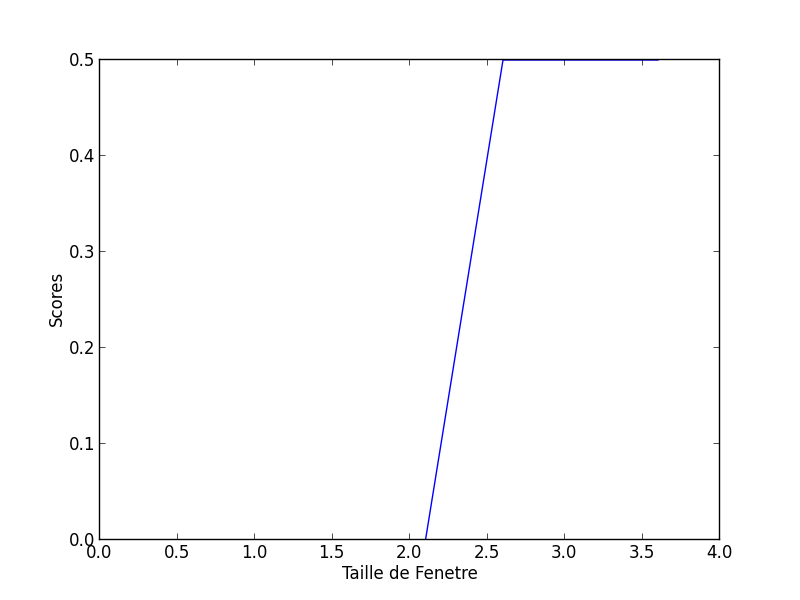
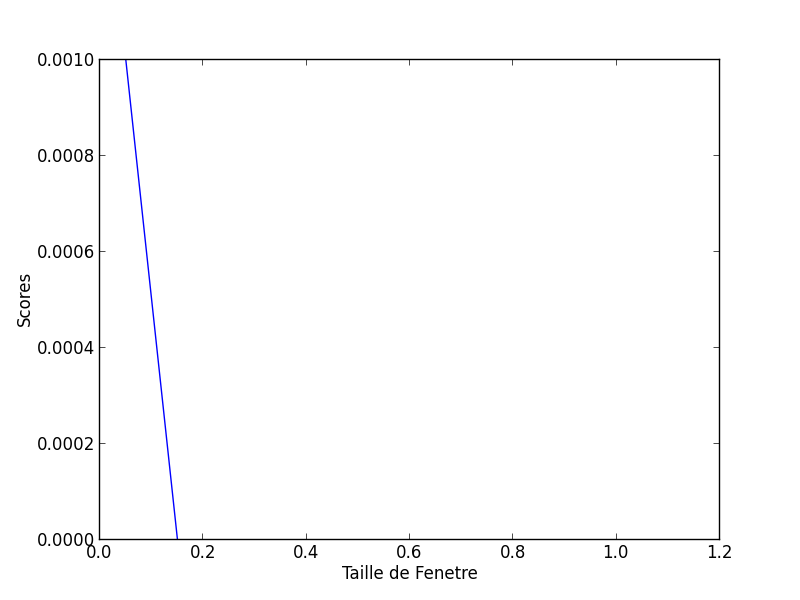
ARF Rapport

diff --git a/ARF/TME02/ARF-TME2.py b/ARF/TME02/ARF-TME2.py
@@ -200,12 +200,12 @@ for K in [hypercube,sphere,gauss,laplace,epanechikov,uniform]:
         plot_frontiere(testX,testY,parzen.predict,fname)
         # plot_frontiere(testX,testY,parzen.predict)
 '''
-arange = np.arange(0.1,4.1,0.5)
+arange = np.arange(0.05,1.2,0.1)
 for t in [0,2,3]:
     trainX,trainY = gen_arti(data_type=t)
     testX ,testY  = gen_arti(data_type=t)
 
-    for K in [hypercube,sphere,gauss]: #,laplace,epanechikov,uniform]:
+    for K in [gauss]: # [hypercube,sphere,gauss]: #,laplace,epanechikov,uniform]:
         scores = []
         fname = "parzen[K=%s][data_type=%d].png"%(K.__name__,t)
         for h in arange:
